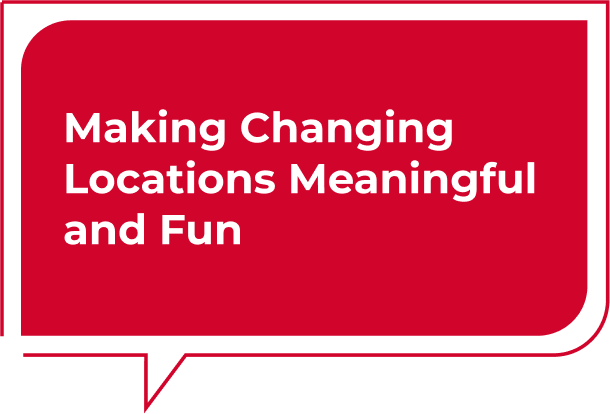
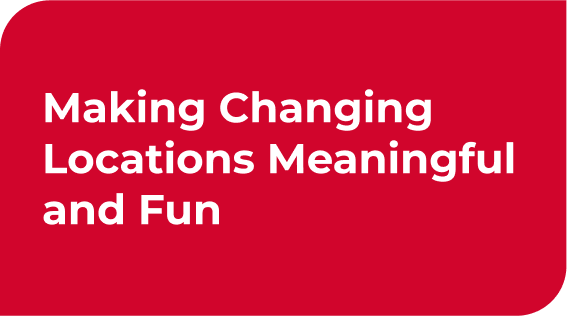
Home respon (#141)
* survival guide and user home

* slite bug fix

* responsive pages

* some other pages responsive

* all page responsive

* all ok

* font and some issue

* issue solving

* Update home.blade.php

* story updaste

* featured story

* Update home.blade.php

* error solve

* country change, slice currection in user-home

* some changes

---------

diff --git a/resources/views/frontend/pages/home.blade.php b/resources/views/frontend/pages/home.blade.php
@@ -190,10 +190,10 @@
                 </div>
             </div>
             <!-- make changing section -->
-            <div class="mt-[40px] lg:block flex justify-center items-center">
+            <div class="mt-[37px] lg:block flex justify-center items-center">
                 @if ($home !== null)
                     <img src="/images/Theme.png" alt=""
-                        class="2xl:w-[605px] xl:w-full w-[320px] sm:w-[500px] md:w-[600px] lg:h-[406px] lg:ml-[135px]  xl:mx-0 2xl:ml-[40px]  2xl:absolute change">
+                        class="xl:w-[566px] xl:h-[315px]  w-[320px] sm:w-[500px] md:w-[600px] lg:h-[406px] lg:ml-[135px]  xl:mx-0 2xl:ml-[40px]  2xl:absolute change">
                 @endif
             </div>
             <!-- make changing section end -->
@@ -368,7 +368,7 @@
                     @foreach ($popularStory as $pStory)
                         <div class="pb-5 xl:pb-0 bg-white border border-gray-200 rounded-lg shadow">
                             <a href="{{ route('single-story', $pStory->id) }}">
-                                <img class=" lg:h-[424px] w-full" src="{{ Storage::url($pStory->image) }}"
+                                <img class=" xl:h-[424px] w-full" src="{{ Storage::url($pStory->image) }}"
                                     alt="" />
                             </a>
                             <div class="px-[22px] pt-[20px] xl:h-[516px]">
@@ -455,7 +455,7 @@
 
                 @if ($services->count() > 0)
                     @foreach ($services as $item)
-                        <div class="mr-[27px] ml-4">
+                        <div class="mr-[27px] ">
                             <div class="flex justify-center items-center"><img src="{{ asset($item->image) }}"
                                     alt="" class="w-[100px] h-[100px]" /></div>
                             <h1 class="font-semibold text-xl xl:w-[160px] text-center "> {{ $item->title }} </h1>

diff --git a/resources/views/frontend/pages/benefit-details.blade.php b/resources/views/frontend/pages/benefit-details.blade.php
@@ -5,9 +5,9 @@
 @section('content')
     <div class="mt-[100px]" style="font-family:'Poppins'">
         <h1 class="text-[50px] font-bold text-center">{{ $mdata->title }}</h1>
-        <div class="mt-[20px] w-[1100px] border rounded-xl mx-auto bg-white shadow-md"
+        <div class="mt-[20px] xl:w-[1100px] md:mx-10 mx-0 border rounded-xl xl:mx-auto bg-white shadow-md"
             >
-            <p class="px-[40px] pt-[30px] pb-[134px] text-[16px] font-normal leading-normal">
+            <p class="md:px-[40px] px-5 pt-[30px] pb-[134px] text-[16px] font-normal leading-normal">
                {!! $mdata->first_para !!} <br>
                {!! $mdata->rest_para !!}
             </p>
